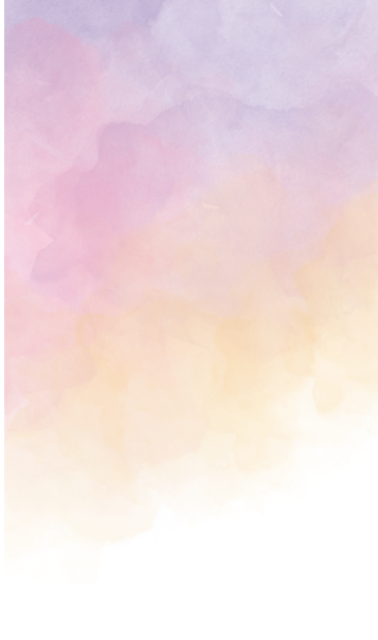
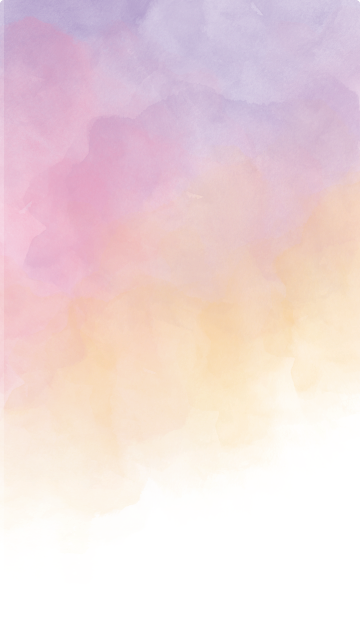
💄 design: 채널관련 페이지 디자인 수정 (#113)
* 🔨 fix: 박 색상 가져오기 이슈 수정

* 💄 design : 박 안내 다크모드 색상 수정

* 💄 design: 배경 이미지 변경

* 🔨 fix: 페이지네이션 length별 visible 수정

diff --git a/src/utils/parse.ts b/src/utils/parse.ts
@@ -1,5 +1,8 @@
 import { BgType } from '@/components/ChannelTemplate/SelectBackground/type';
-import { ColorType } from '@/components/ChannelTemplate/SelectColor/type';
+import {
+  ColorName,
+  ColorType
+} from '@/components/ChannelTemplate/SelectColor/type';
 import { Post } from '@/types/ResponseType';
 
 const parsedDescription = (description: string) => {
@@ -11,11 +14,11 @@ const parsedDescription = (description: string) => {
 };
 
 export const parsedColor = (description: string) => {
-  const parsedColor = parsedDescription(description)?.color;
-
+  const parsedColor: ColorName = parsedDescription(description)?.color;
   if (!parsedColor || typeof parsedColor === 'number') return ColorType.orange;
-  return parsedColor;
+  return ColorType[parsedColor];
 };
+
 export const parsedBackground = (description: string) => {
   return parsedDescription(description)?.background ?? BgType.original;
 };

diff --git a/src/pages/ChannelList/index.style.tsx b/src/pages/ChannelList/index.style.tsx
@@ -8,10 +8,16 @@ export const Title = styled.div`
   padding: 2rem;
   font-weight: 600;
   & h1 {
+    display: flex;
     ${({ theme }) => theme.typography.title2};
     & span {
+      max-width: 10rem;
+      display: block;
       ${({ theme }) => theme.typography.title2};
       color: ${({ theme }) => theme.palette.main};
+      white-space: nowrap;
+      text-overflow: ellipsis;
+      overflow: hidden;
     }
   }
   & span {
@@ -20,10 +26,12 @@ export const Title = styled.div`
   }
 `;
 export const Body = styled.div`
-  padding: 1rem 0.5rem;
+  padding: 0.5rem;
+  padding-top: 1rem;
   border-top: 1px solid rgba(255, 255, 255, 0.2);
 `;
 export const ChannelIconList = styled.ul`
+  margin: 0.5rem;
   overflow: scroll;
   ::-webkit-scrollbar {
     display: none;

diff --git a/src/components/Common/HamburgerMenu/index.tsx b/src/components/Common/HamburgerMenu/index.tsx
@@ -1,6 +1,6 @@
 import { useEffect, useState } from 'react';
 import { IoMenu } from 'react-icons/io5';
-import { Link, useNavigate } from 'react-router-dom';
+import { Link } from 'react-router-dom';
 import { useLocation } from 'react-router-dom';
 import { useAtom, useAtomValue } from 'jotai';
 import { PATH } from '@/constants/path';
@@ -18,7 +18,6 @@ function HamburgerMenu() {
   const darkMode = useAtomValue(darkAtom);
 
   const { pathname } = useLocation();
-  const navigate = useNavigate();
 
   const { mutateSignOut } = useSignOutMutation();
 

diff --git a/src/components/Common/Pagenation/index.style.tsx b/src/components/Common/Pagenation/index.style.tsx
@@ -1,11 +1,11 @@
 import styled from '@emotion/styled';
 
-export const Container = styled.div`
+export const Container = styled.div<{
+  visible: boolean;
+}>`
   position: absolute;
   bottom: 5rem;
   left: calc(50% - 4rem);
-  display: flex;
-  color: white;
   width: 5rem;
   padding: 1rem;
   border-radius: 10px;
@@ -16,6 +16,7 @@ export const Container = styled.div`
     gap: 0.5rem;
     margin: 0rem 1rem;
   }
+  display: ${({ visible }) => (visible ? 'flex' : 'none')};
 `;
 export const Image = styled.img<{
   visible: boolean;

diff --git a/src/pages/PostCreate/index.tsx b/src/pages/PostCreate/index.tsx
@@ -26,9 +26,9 @@ function PostCreate() {
     <>
       <Title>
         <h1>
-          <span>{state.channelName ?? '프룽'}</span>님께 보내는 주머니
+          <span>{state.channelName ?? '프룽'}</span>님에게
         </h1>
-        <span>주머니 색상을 선택해주세요</span>
+        <span>전달할 주머니 색상을 선택해주세요</span>
       </Title>
       <ChannelIconList>
         {Object.keys(ColorType).map((colorName) => (

diff --git a/src/components/ChannelTemplate/SelectBackground/index.tsx b/src/components/ChannelTemplate/SelectBackground/index.tsx
@@ -29,7 +29,7 @@ function SelectBackground({ option, setOption }: Props) {
             <Item
               css={option.background === item && selectedStyle}
               src={`/src/assets/background/${item}.png`}
-              alt="background-img"
+              alt={`background-image-${item}`}
               onClick={() =>
                 setOption({ ...option, background: item as BgName })
               }

diff --git a/src/components/Channel/ChannelClose/index.tsx b/src/components/Channel/ChannelClose/index.tsx
@@ -10,8 +10,9 @@ type Props = {
 };
 
 function ChannelClose({ handleIconClick }: Props) {
-  const { channelId } = useParams();
-  const { data: channelInfo } = useChannelQuery(channelId ?? '');
+  const { channelName } = useParams();
+  const { data: channelInfo } = useChannelQuery(channelName ?? '');
+
   const channelColor = parsedColor(channelInfo?.description);
   return (
     <>

diff --git a/src/components/Common/Pagenation/index.tsx b/src/components/Common/Pagenation/index.tsx
@@ -15,13 +15,12 @@ function Pagenation(props: Props) {
     setPageNumber(pageNumber - 1);
     setPage(pageNumber - 2);
   };
-
   const handleClickRightButton = () => {
     setPageNumber(pageNumber + 1);
     setPage(pageNumber);
   };
   return (
-    <Container>
+    <Container visible={totalPage > 1}>
       <Image
         visible={pageNumber !== 1}
         src={ArrowLeft}

diff --git a/src/components/ChannelTemplate/SelectBackground/index.style.tsx b/src/components/ChannelTemplate/SelectBackground/index.style.tsx
@@ -12,7 +12,7 @@ export const Background = styled.div<{ selectedValue: BgName }>`
     BgType[selectedValue] === 'dark' ? 'white' : 'black'};
 `;
 
-export const Item = styled.img<{ styleOption: { [key: string]: string } }>`
+export const Item = styled.img<{ styleOption?: { [key: string]: string } }>`
   margin: 0.5rem;
   width: 5.625rem;
   height: 5.625rem;

diff --git a/src/pages/Channel/index.tsx b/src/pages/Channel/index.tsx
@@ -26,12 +26,12 @@ function Channel() {
 
   useEffect(() => {
     if (channelInfo) setData(channelInfo);
-    console.log(channelInfo);
   }, [channelInfo]);
 
   if (channelName === undefined) {
     return <Navigate to="/" />;
   }
+
   const handleIconClick = (): void => {
     setIsOpened(true);
   };

diff --git a/src/components/Channel/ChannelClose/index.style.tsx b/src/components/Channel/ChannelClose/index.style.tsx
@@ -8,7 +8,7 @@ export const AnnounceBox = styled.div`
   padding: 2rem;
   width: 14.75rem;
   text-align: center;
-  background-color: rgba(255, 255, 255, 0.3);
+  background-color: rgba(0, 0, 0, 0.3);
   color: white;
   font-weight: 600;
   animation: fade 3s;

diff --git a/src/components/ChannelList/ChannelIcon/index.style.tsx b/src/components/ChannelList/ChannelIcon/index.style.tsx
@@ -4,7 +4,7 @@ export const ChannelIconContainer = styled.li`
   display: flex;
   flex-direction: column;
   align-items: center;
-  gap: 1rem;
+  gap: 0.5rem;
   margin: 1rem;
 
   & img {
